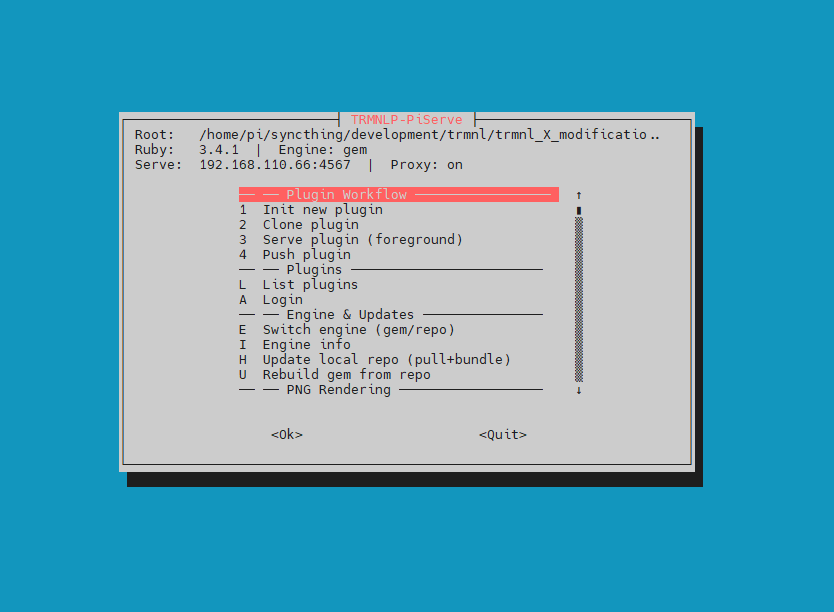
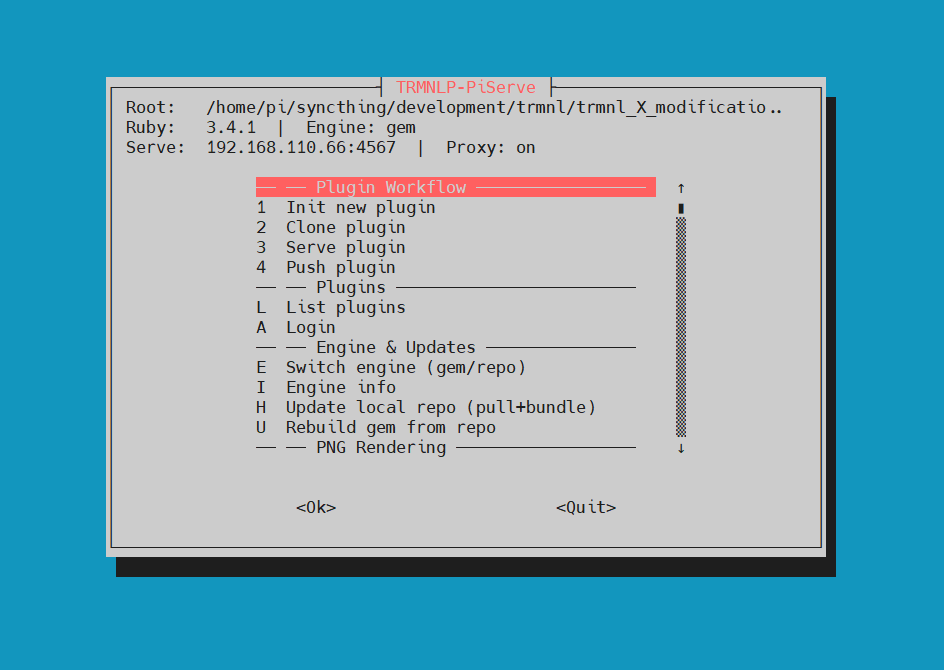
Update for user/plugin settings
After cloning a plugin, the script offers to fetch your TRMNL user profile and plugin settings from the API and write them into the plugin's `.trmnlp.yml` under the `variables.trmnl` section. This populates the local preview with realistic user, device, and plugin data so your templates render with real values instead of placeholders.

Changed region(s): [[0.0935, 0.0931, 0.9041, 0.8693], [0.6859, 0.3105, 0.7482, 0.652]]

diff --git a/README.md b/README.md
@@ -64,7 +64,7 @@ I develop on Windows and use [Syncthing](https://syncthing.net/) to sync the plu
 | Key | Action |
 |-----|--------|
 | 1 | Init new plugin |
-| 2 | Clone plugin from TRMNL (by plugin_setting_id) |
+| 2 | Clone plugin from TRMNL (by plugin_setting_id), with optional context fetch |
 | 3 | Serve plugin in foreground (Ctrl+C to stop) |
 | 4 | Push plugin to TRMNL |
 
@@ -99,6 +99,20 @@ I develop on Windows and use [Syncthing](https://syncthing.net/) to sync the plu
 | 0 | Exit |
 
 This tool manages the plugin lifecycle (init, clone, serve, push) but is not a code editor. To view or edit plugin source files, use your preferred editor or IDE directly on the plugin directory under your plugins root.
+
+## TRMNL context fetch (post-clone)
+
+After cloning a plugin, the script offers to fetch your TRMNL user profile and plugin settings from the API and write them into the plugin's `.trmnlp.yml` under the `variables.trmnl` section. This populates the local preview with realistic user, device, and plugin data so your templates render with real values instead of placeholders.
+
+The fetch requires a TRMNL API key. If no key is saved, the script will offer to save one on the spot. The API key is stored in `~/.config/trmnlp-piserve/secrets.env` (mode 600).
+
+Data written to `.trmnlp.yml` includes:
+
+- **User**: name, locale, time zone, UTC offset
+- **Device**: friendly ID, battery, Wi-Fi strength, screen dimensions
+- **Plugin settings**: instance name, strategy, dark mode, polling URL, custom field values
+
+If a `.trmnlp.yml` already exists, it is backed up before being updated. Existing keys outside of `variables.trmnl` (such as `watch` or `custom_fields`) are preserved.
 
 ## Screenshots
 
